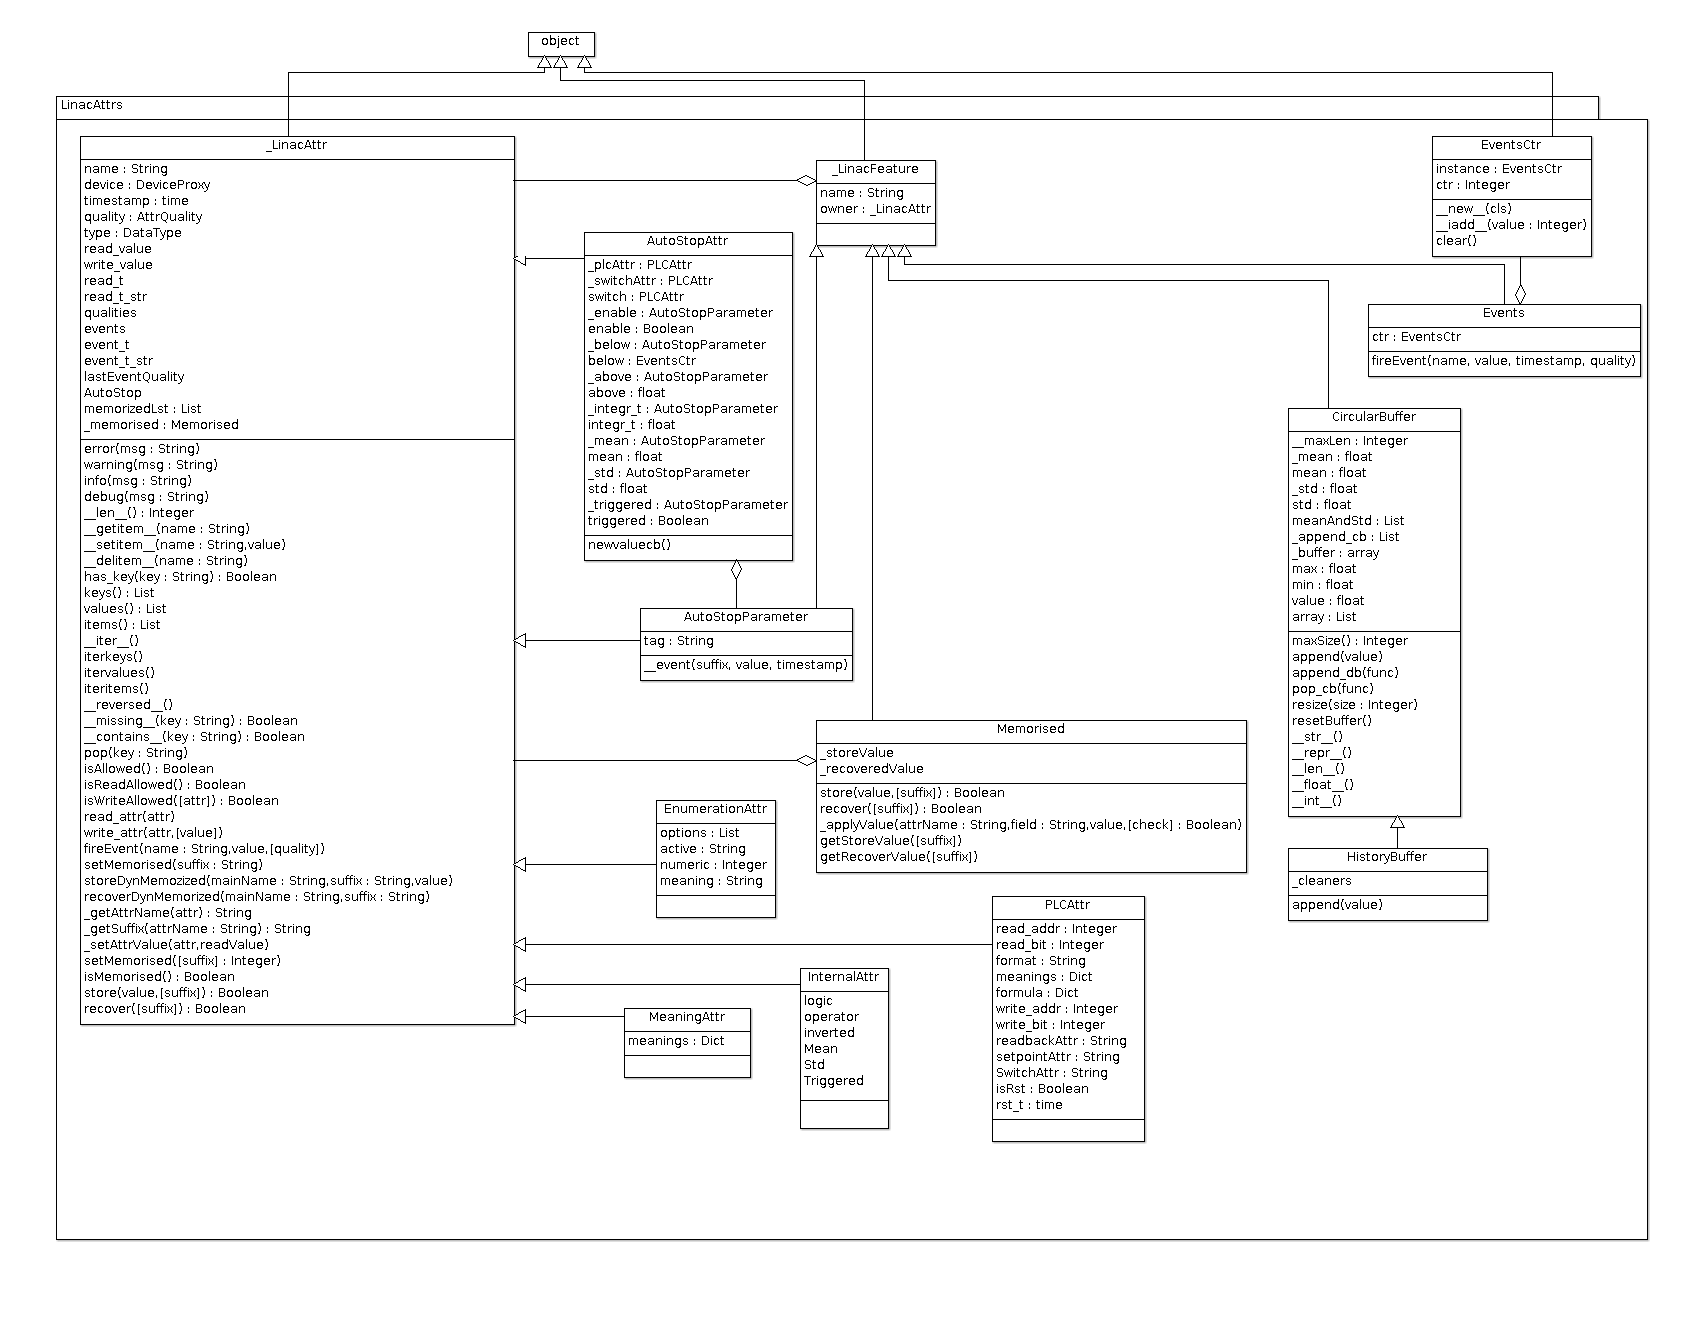
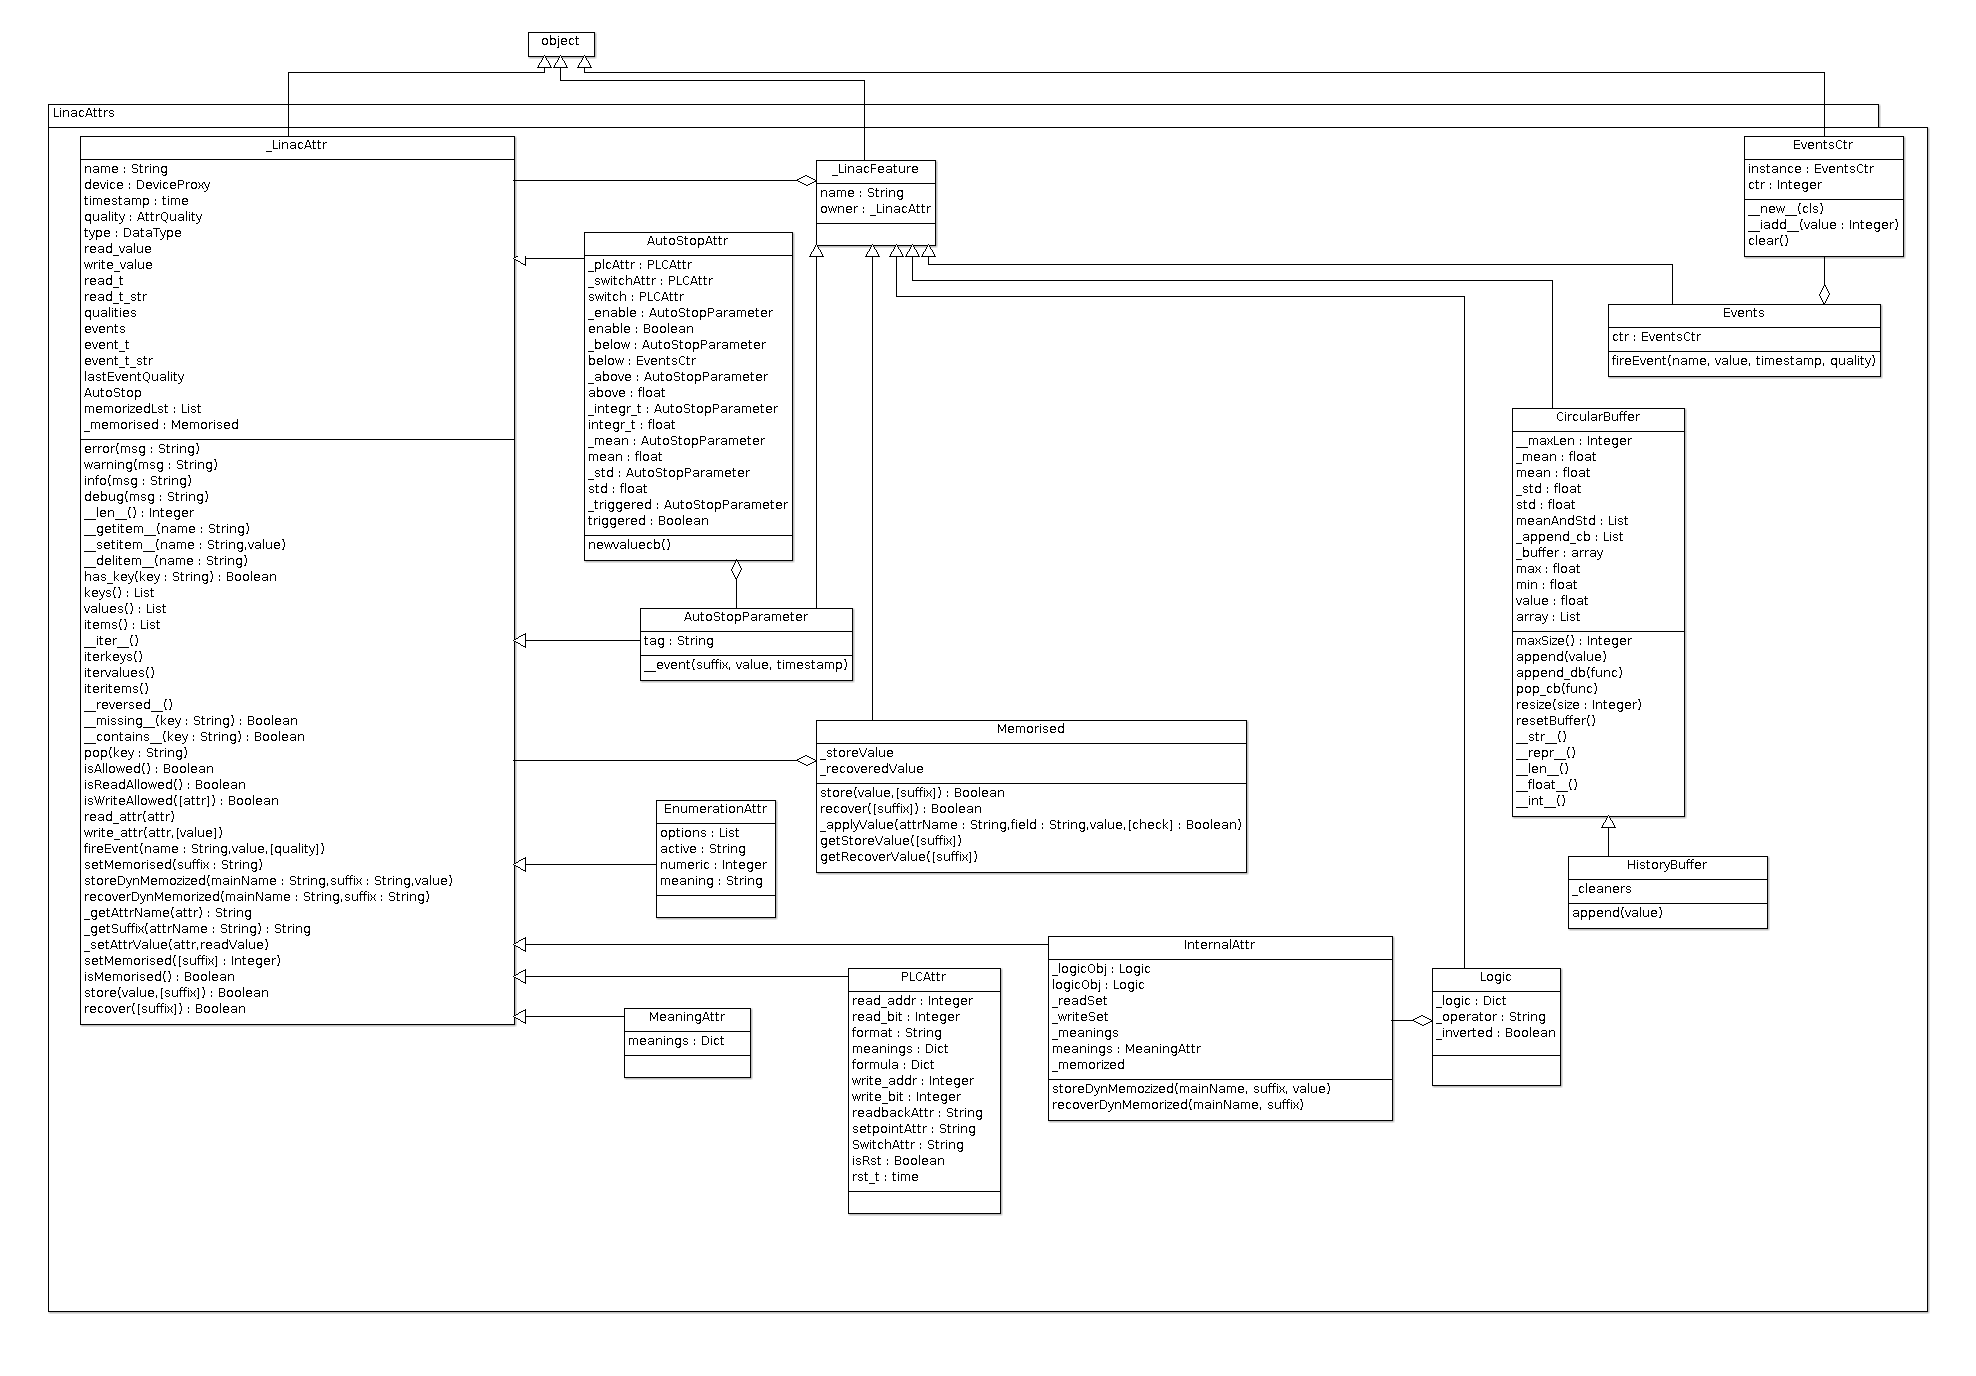
review and update documentation

Changed region(s): [[0.0311, 0.0311, 0.9953, 0.9318], [0.0311, 0.9318, 0.9642, 0.9629], [0.591, 0.528, 0.6532, 0.5591]]

diff --git a/LinacAttrs/LinacFeatures/logic.py b/LinacAttrs/LinacFeatures/logic.py
@@ -35,8 +35,11 @@ class Logic(_LinacFeature):
         super(Logic, self).__init__(owner=owner, *args, **kwargs)
         self._str_ = "%s:Logic" % (self.owner.name)
         self._logic = logic
-        self._operator = operator
+        self._operator = operator # FIXME: check if it is a valid operator
         self._inverted = inverted
+        # TODO: include the logic evaluation 
+        #       - triggered by callbacks
+        #       - with the necessary event emission
 
     def __str__(self):
         return "%s (%s, %s, %s)" % (self._str_, self._logic, self._operator,
@@ -45,14 +48,14 @@ class Logic(_LinacFeature):
     def __repr__(self):
         return self.__str__()
 
-    @property
-    def logic(self):
-        return self._logic
+    #@property
+    #def logic(self):
+    #    return self._logic
 
-    @property
-    def operator(self):
-        return self._operator
+    #@property
+    #def operator(self):
+    #    return self._operator
 
-    @property
-    def inverted(self):
-        return self._inverted
+    #@property
+    #def inverted(self):
+    #    return self._inverted

diff --git a/LinacAttrs/internalAttr.py b/LinacAttrs/internalAttr.py
@@ -28,15 +28,6 @@ from .LinacFeatures import Logic
 
 class InternalAttr(LinacAttr):
 
-    _logic = None
-    _operator = None
-    _inverted = None
-
-    _mean = None
-    _std = None
-
-    _triggered = None
-
     _readSet = None
     _writeSet = None
 
